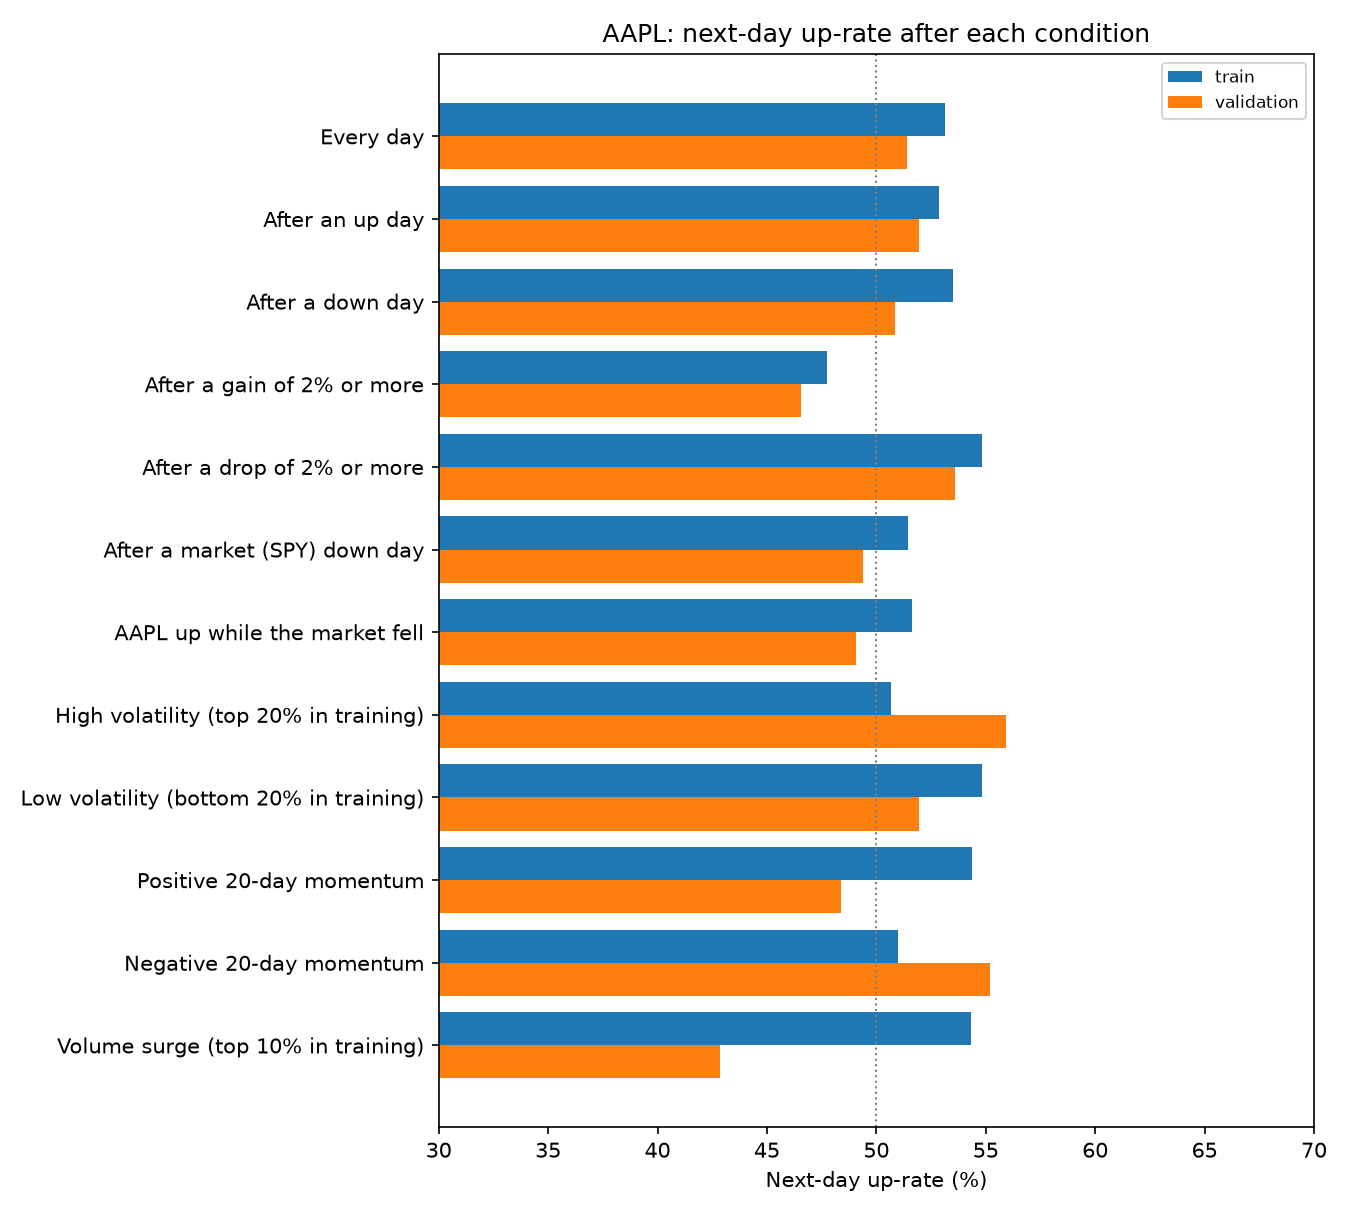
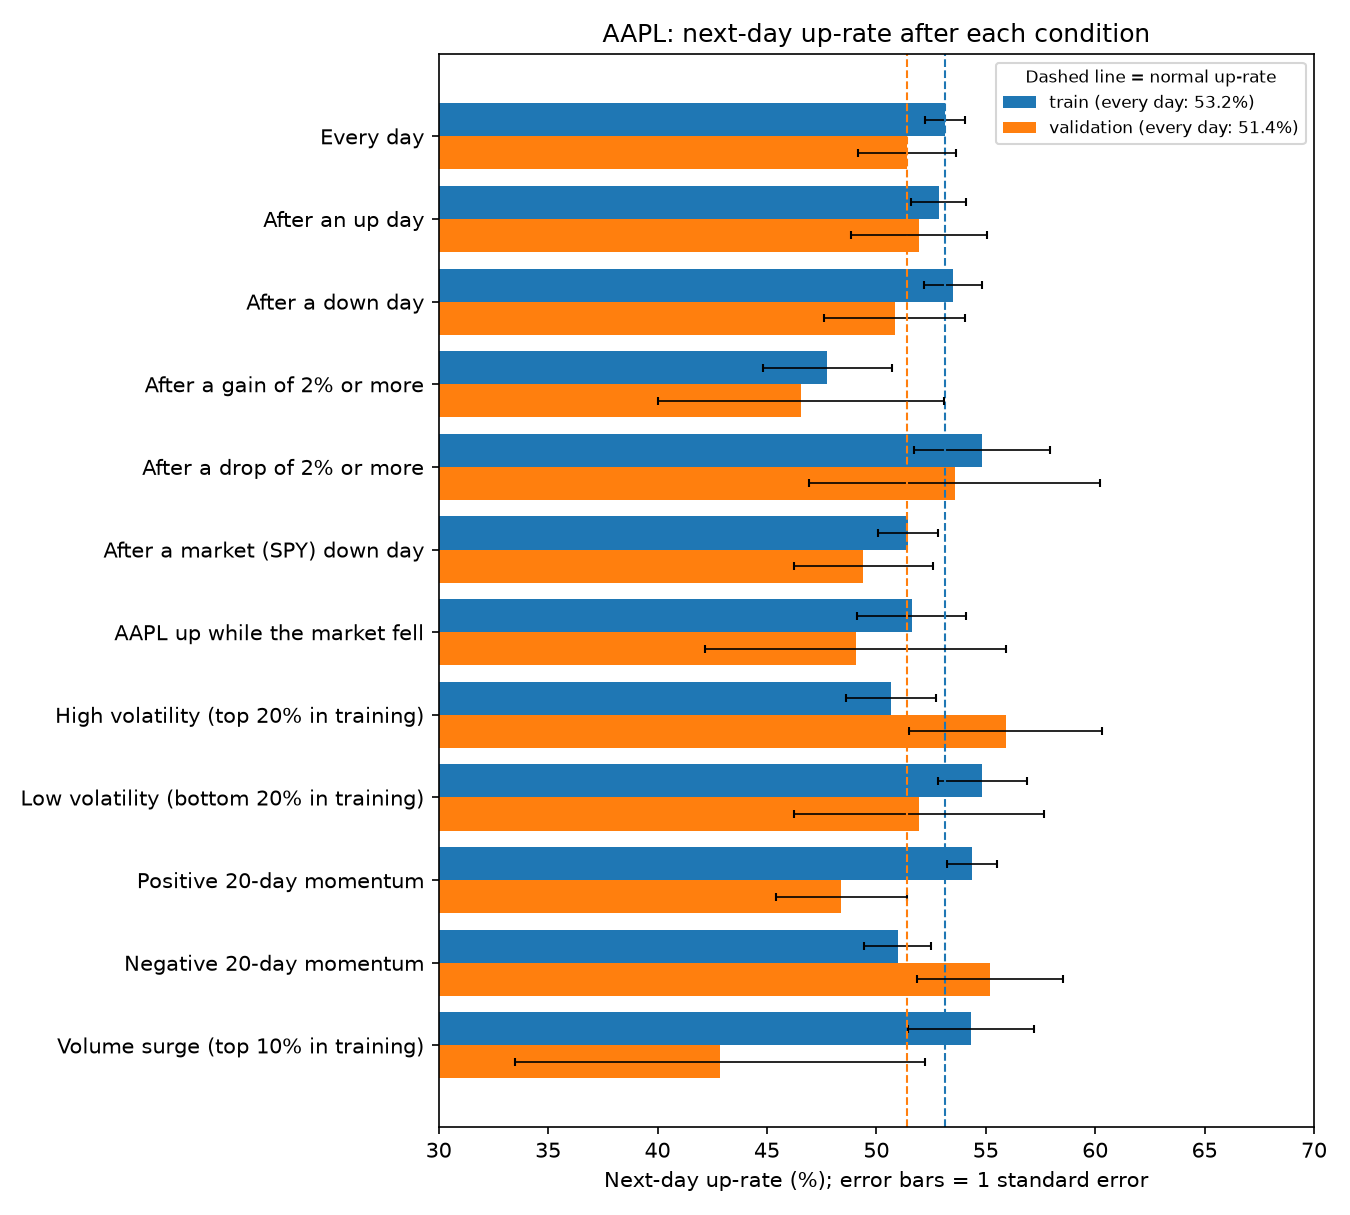
docs(stock-forecast): explain report charts and add mean-reversion checks

diff --git a/apps/stock-forecast/src/stock_forecast/evaluate.py b/apps/stock-forecast/src/stock_forecast/evaluate.py
@@ -229,24 +229,42 @@ def plot_direction_accuracy(table: pd.DataFrame, always_up_rate: float, path: Pa
     return _save(fig, path)
 
 
-def plot_loss(history: dict, path: Path) -> Path:
+def plot_loss(history: dict, path: Path, ylabel: str = "Mean squared error (scaled)") -> Path:
     """Training vs validation loss by epoch. Diverging lines mean memorising."""
     fig, ax = plt.subplots(figsize=(8, 4))
     ax.plot(history["loss"], label="Training loss")
     ax.plot(history["val_loss"], label="Validation loss")
     ax.set_xlabel("Epoch")
-    ax.set_ylabel("Mean squared error (scaled)")
+    ax.set_ylabel(ylabel)
     ax.legend()
     return _save(fig, path)
 
 
-def plot_walk_forward(table: pd.DataFrame, path: Path) -> Path:
-    """Direction accuracy per test year, one line per model."""
+def plot_walk_forward(
+    table: pd.DataFrame, path: Path, highlight: tuple[str, ...] = ("LSTM direction", "LSTM")
+) -> Path:
+    """Direction accuracy per test year: always-up as the bar to clear, highlighted models in colour.
+
+    Every other model is drawn thin and grey, so the comparison that matters
+    stays readable while the rest remain visible for context.
+    """
     fig, ax = plt.subplots(figsize=(9, 4.5))
-    for model, rows in table.dropna(subset=["direction_accuracy"]).groupby("model"):
-        ax.plot(rows["year"], rows["direction_accuracy"] * 100, marker="o", label=model)
+    scored = table.dropna(subset=["direction_accuracy"])
+    for model, rows in scored.groupby("model"):
+        if model not in highlight:
+            ax.plot(rows["year"], rows["direction_accuracy"] * 100, color="lightgrey", linewidth=1, zorder=1)
+    if "always_up_rate" in table:
+        years = table.groupby("year")["always_up_rate"].first()
+        ax.plot(years.index, years * 100, color="black", linestyle="--", linewidth=2, marker="s",
+                label="Always up (bar to clear)", zorder=2)
+    for model in highlight:
+        rows = scored[scored["model"] == model]
+        if not rows.empty:
+            ax.plot(rows["year"], rows["direction_accuracy"] * 100, marker="o", linewidth=2, label=model, zorder=3)
+    ax.plot([], [], color="lightgrey", linewidth=1, label="Other baselines")
     ax.set_xlabel("Test year")
     ax.set_ylabel("Direction accuracy (%)")
+    ax.set_title("Walk-forward: direction accuracy per test year")
     ax.legend(fontsize=8)
     return _save(fig, path)
 
@@ -288,20 +306,32 @@ def plot_up_probability(
 
 
 def plot_market_conditions(table: pd.DataFrame, path: Path, title: str) -> Path:
-    """Next-day up-rate after each market condition, one bar per period."""
-    periods = [c for c in table.columns if c.endswith("_up_rate")]
+    """Next-day up-rate after each market condition, one bar per period.
+
+    Each period's dashed line is its "Every day" up-rate: the normal rate a
+    condition has to differ from. Error bars span one standard error, so a
+    bar whose error bar crosses its dashed line is within ordinary noise.
+    """
+    periods = [c.removesuffix("_up_rate") for c in table.columns if c.endswith("_up_rate")]
+    baseline = table.set_index("condition").loc["Every day"]
     fig, ax = plt.subplots(figsize=(9, 0.55 * len(table) + 1.5))
     height = 0.8 / len(periods)
     positions = np.arange(len(table))
-    for i, column in enumerate(periods):
-        ax.barh(positions + i * height, table[column] * 100, height=height, label=column.removesuffix("_up_rate"))
+    colors = plt.rcParams["axes.prop_cycle"].by_key()["color"]
+    for i, period in enumerate(periods):
+        rate, days = table[f"{period}_up_rate"], table[f"{period}_days"]
+        # Standard error of a share: sqrt(p(1 - p) / n), in percentage points.
+        error = np.sqrt(rate * (1 - rate) / days.where(days > 0)) * 100
+        ax.barh(positions + i * height, rate * 100, height=height, xerr=error, capsize=2,
+                color=colors[i], error_kw={"elinewidth": 0.8, "ecolor": "black"},
+                label=f"{period} (every day: {baseline[f'{period}_up_rate']:.1%})")
+        ax.axvline(baseline[f"{period}_up_rate"] * 100, color=colors[i], linestyle="--", linewidth=1)
     ax.set_yticks(positions + height * (len(periods) - 1) / 2, table["condition"])
     ax.invert_yaxis()
-    ax.axvline(50, color="grey", linestyle=":", linewidth=1)
-    ax.set_xlabel("Next-day up-rate (%)")
+    ax.set_xlabel("Next-day up-rate (%); error bars = 1 standard error")
     ax.set_xlim(30, 70)
     ax.set_title(title)
-    ax.legend(fontsize=8)
+    ax.legend(fontsize=8, title="Dashed line = normal up-rate", title_fontsize=8)
     return _save(fig, path)
 
 

diff --git a/apps/stock-forecast/tests/test_insights.py b/apps/stock-forecast/tests/test_insights.py
@@ -5,8 +5,8 @@ import numpy as np
 
 from stock_forecast.data import add_indicators, split_by_date
 from stock_forecast.evaluate import plot_market_conditions
-from stock_forecast.insights import condition_rules, market_conditions
-from tests.helpers import make_dataset
+from stock_forecast.insights import condition_rules, market_conditions, return_autocorrelation
+from tests.helpers import make_dataset, simulate_var
 
 
 class MarketConditionTests(unittest.TestCase):
@@ -18,12 +18,14 @@ class MarketConditionTests(unittest.TestCase):
     def test_one_row_per_rule_with_days_and_rates(self):
         self.assertEqual(len(self.table), len(condition_rules(self.splits.train)))
         self.assertEqual(list(self.table.columns),
-                         ["condition", "train_days", "train_up_rate", "validation_days", "validation_up_rate"])
+                         ["condition", "train_days", "train_up_rate", "train_mean_return",
+                          "validation_days", "validation_up_rate", "validation_mean_return"])
 
     def test_every_day_row_is_the_plain_up_rate(self):
         row = self.table.set_index("condition").loc["Every day"]
         self.assertEqual(row["validation_days"], len(self.splits.val))
         self.assertAlmostEqual(row["validation_up_rate"], (self.splits.val["target"] > 0).mean())
+        self.assertAlmostEqual(row["validation_mean_return"], self.splits.val["target"].mean())
 
     def test_thresholds_come_from_training_only(self):
         changed_val = self.splits.val.copy()
@@ -37,6 +39,17 @@ class MarketConditionTests(unittest.TestCase):
         calm["ret"] = 0.0
         table = market_conditions(self.splits.train, {"calm": calm}).set_index("condition")
         self.assertTrue(np.isnan(table.loc["After a drop of 2% or more", "calm_up_rate"]))
+
+    def test_autocorrelation_finds_reversal_and_ignores_a_random_walk(self):
+        # a(t) = -0.3 a(t-1) + noise: a known mean-reverting series.
+        reverting = simulate_var([[[-0.3, 0.0], [0.0, 0.0]]], [0.0, 0.0], 3000, seed=1).rename(columns={"a": "ret"})
+        table = return_autocorrelation({"reverting": reverting, "random walk": self.splits.train}, lags=range(1, 3))
+        first = table[(table["period"] == "reverting") & (table["lag_days"] == 1)].iloc[0]
+        self.assertAlmostEqual(first["autocorrelation"], -0.3, delta=0.05)
+        self.assertTrue(first["beyond_noise"])
+        walk = table[(table["period"] == "random walk") & (table["lag_days"] == 1)].iloc[0]
+        self.assertLess(abs(walk["autocorrelation"]), 3 * walk["standard_error"])
+        self.assertEqual(walk["days"], len(self.splits.train) - 1)
 
     def test_chart_is_written(self):
         with tempfile.TemporaryDirectory() as folder:

diff --git a/apps/stock-forecast/src/stock_forecast/insights.py b/apps/stock-forecast/src/stock_forecast/insights.py
@@ -40,7 +40,10 @@ def condition_rules(train: pd.DataFrame) -> dict[str, Condition]:
 
 
 def market_conditions(train: pd.DataFrame, periods: dict[str, pd.DataFrame]) -> pd.DataFrame:
-    """One row per condition: matching days and next-day up-rate in each period.
+    """One row per condition: matching days, next-day up-rate and mean next-day return in each period.
+
+    The up-rate counts days; the mean return also weighs how big the moves
+    were, which is what mean reversion is about.
 
     `periods` maps a label to a split, e.g. {"train": train, "validation": val}.
     Pass the test split only after the final test has been run.
@@ -50,8 +53,36 @@ def market_conditions(train: pd.DataFrame, periods: dict[str, pd.DataFrame]) -> 
         row: dict = {"condition": name}
         for label, part in periods.items():
             mask = rule(part).to_numpy()
-            up = part["target"].to_numpy()[mask] > 0
+            next_returns = part["target"].to_numpy()[mask]
             row[f"{label}_days"] = int(mask.sum())
-            row[f"{label}_up_rate"] = float(up.mean()) if mask.any() else np.nan
+            row[f"{label}_up_rate"] = float((next_returns > 0).mean()) if mask.any() else np.nan
+            row[f"{label}_mean_return"] = float(next_returns.mean()) if mask.any() else np.nan
         rows.append(row)
     return pd.DataFrame(rows)
+
+
+def return_autocorrelation(periods: dict[str, pd.DataFrame], lags: range = range(1, 6)) -> pd.DataFrame:
+    """Correlation between each day's return and the return `lag` days later, per period.
+
+    Negative values mean moves tend to partly reverse (mean reversion);
+    positive values mean they tend to continue (momentum). Under no
+    relationship, values fall within about two standard errors of zero,
+    where one standard error is roughly 1 / sqrt(days).
+    """
+    rows = []
+    for label, part in periods.items():
+        returns = part["ret"]
+        for lag in lags:
+            # Descriptive only, never a model input. Both series come from the same split,
+            # so no return from a later split is paired in.
+            pairs = pd.concat([returns, returns.shift(-lag)], axis=1).dropna()
+            rows.append({
+                "period": label,
+                "lag_days": lag,
+                "days": len(pairs),
+                "autocorrelation": float(pairs.iloc[:, 0].corr(pairs.iloc[:, 1])),
+                "standard_error": float(1 / np.sqrt(len(pairs))),
+            })
+    table = pd.DataFrame(rows)
+    table["beyond_noise"] = table["autocorrelation"].abs() > 2 * table["standard_error"]
+    return table

diff --git a/apps/stock-forecast/scripts/market-conditions.py b/apps/stock-forecast/scripts/market-conditions.py
@@ -1,9 +1,10 @@
-"""Next-day up-rates after common market conditions, training vs validation.
+"""Next-day up-rates and returns after market conditions, plus return autocorrelation.
 
 Descriptive talking points, not a model: does a pattern seen in 2010-2021
 still hold in 2022-2023? Thresholds are cut from training rows only. The test
 years are left out so this cannot steer model choices before the final run.
-Writes reports/market_conditions.csv and reports/market_conditions.png.
+Writes reports/market_conditions.csv, reports/market_conditions.png and
+reports/return_autocorrelation.csv.
 """
 import _bootstrap  # noqa: F401
 import pandas as pd
@@ -11,15 +12,23 @@ import pandas as pd
 from stock_forecast import config
 from stock_forecast.data import split_by_date
 from stock_forecast.evaluate import plot_market_conditions
-from stock_forecast.insights import market_conditions
+from stock_forecast.insights import market_conditions, return_autocorrelation
 from stock_forecast.pipeline import load_direction_dataset
 
 splits = split_by_date(load_direction_dataset())
 # Drop the last row of each split: its label is the next split's first day.
-table = market_conditions(splits.train, {"train": splits.train.iloc[:-1], "validation": splits.val.iloc[:-1]})
+periods = {"train": splits.train.iloc[:-1], "validation": splits.val.iloc[:-1]}
+table = market_conditions(splits.train, periods)
+autocorrelation = return_autocorrelation({"train": splits.train, "validation": splits.val})
 config.REPORTS_DIR.mkdir(parents=True, exist_ok=True)
 table.to_csv(config.MARKET_CONDITIONS_CSV, index=False)
+autocorrelation.to_csv(config.AUTOCORRELATION_CSV, index=False)
 plot_market_conditions(table, config.REPORTS_DIR / "market_conditions.png",
                        f"{config.TICKER}: next-day up-rate after each condition")
 pd.set_option("display.width", 160)
-print(table.to_string(index=False, float_format=lambda v: f"{v:.1%}"))
+shown = table.copy()
+for column in [c for c in shown.columns if c.endswith("_mean_return")]:
+    shown[column] = shown[column].map(lambda v: f"{v:+.3%}")
+print(shown.to_string(index=False, float_format=lambda v: f"{v:.1%}"))
+print("\nReturn autocorrelation (negative = moves partly reverse):")
+print(autocorrelation.to_string(index=False, float_format=lambda v: f"{v:+.4f}"))

diff --git a/apps/stock-forecast/scripts/0003-train-lstm.py b/apps/stock-forecast/scripts/0003-train-lstm.py
@@ -95,7 +95,7 @@ def train_direction_model(features: list[str]) -> None:
                     "LSTM direction: accuracy by confidence, validation 2022-2023")
     plot_up_probability(splits.val.index, best.prob_up, actual, config.REPORTS_DIR / "direction_probability.png",
                         "LSTM direction: predicted vs actual up-days, validation 2022-2023")
-    plot_loss(best.loss_history, config.REPORTS_DIR / "lstm_direction_loss.png")
+    plot_loss(best.loss_history, config.REPORTS_DIR / "lstm_direction_loss.png", ylabel="Log loss (binary cross-entropy)")
 
     pd.set_option("display.width", 160)
     shown = ["model", "direction_accuracy", "balanced_accuracy", "up_call_rate", "auc", "brier_skill", "log_loss"]

diff --git a/apps/stock-forecast/src/stock_forecast/config.py b/apps/stock-forecast/src/stock_forecast/config.py
@@ -65,6 +65,7 @@ WALK_FORWARD_CSV = REPORTS_DIR / "walk_forward.csv"
 DIRECTION_RESULTS_CSV = REPORTS_DIR / "direction_results.csv"
 TEST_DIRECTION_CSV = REPORTS_DIR / "test_direction_results.csv"
 MARKET_CONDITIONS_CSV = REPORTS_DIR / "market_conditions.csv"
+AUTOCORRELATION_CSV = REPORTS_DIR / "return_autocorrelation.csv"
 SCORECARD_JSON = REPO_ROOT / "apps" / "client-ui" / "public" / "forecast" / "scorecard.json"
 PRICE_CHART = REPORTS_DIR / "aapl_price.png"
 DAILY_RETURNS_CHART = REPORTS_DIR / "aapl_daily_returns.png"

diff --git a/apps/stock-forecast/reports/README.md b/apps/stock-forecast/reports/README.md
@@ -1,0 +1,101 @@
+# Reading the charts
+
+A plain-language guide to every chart in this folder. No machine learning background needed.
+
+## The question
+
+Can a computer model tell whether Apple's stock (AAPL) will go **up or down tomorrow**, better than a simple rule?
+
+The simple rule to beat is **"always up"**: guess "up" every single day. Because AAPL rose over most of these years, that rule is usually right a little more than half the time (between 47% and 58%, depending on the year). A model is only useful if it beats that.
+
+## Words used below
+
+| Word | Meaning |
+| --- | --- |
+| Up-rate | The share of days the stock closed higher than the day before |
+| Accuracy | The share of days the model guessed up or down correctly |
+| Training years | 2010 to 2021: the history the model learns from |
+| Validation years | 2022 and 2023: used to check and tune the model; it never learns from them |
+| Test years | 2024 to 2026: kept sealed and used once, at the very end |
+| LSTM | The type of neural network used here; it reads the last few weeks of prices in order |
+| Noise | Random ups and downs that look like a pattern but are not one |
+
+## The data
+
+**`aapl_price.png`**: AAPL's closing price from 2010 to 2026. It shows the long upward trend, which is why "always up" is a strong rule to beat.
+
+**`aapl_daily_returns.png`**: how much the price moved each day, in percent. Most days sit close to zero, with occasional big jumps (such as the 2020 crash). The model predicts these daily moves, not the price itself, because the price mostly repeats yesterday's value and would make any model look good.
+
+## Market conditions
+
+**`market_conditions.png`**: after a certain kind of day, how often was the next day up?
+
+- Blue bars are the training years, orange bars the validation years.
+- The **dashed lines** show the normal up-rate on any day: 53.2% in training, 51.4% in validation. Being above 50% is normal for this stock and not, by itself, a signal.
+- The **thin black lines** on each bar show how much the number could move by chance. If a bar's black line crosses its dashed line, the difference may just be noise.
+
+What to take away:
+
+- **After a gain of 2% or more**, the next day was up less often than normal (about 47% in both periods). This is the most consistent pattern, though still small.
+- **20-day momentum flipped**: in training, rising stocks kept rising slightly more often; in validation the opposite happened. Patterns from the past do not always carry forward.
+- Conditions with few days, such as **volume surge** (28 validation days), are too noisy to trust.
+
+This chart describes history; it is not a forecast.
+
+### Is it mean reversion?
+
+Mean reversion means a big move tends to be partly given back the next day. Two numbers test it, both in the data files rather than the chart.
+
+**Average next-day return** (`market_conditions.csv`, the `_mean_return` columns) weighs how big the moves were, not just whether they were up:
+
+| After | Training, next day | Validation, next day |
+| --- | --- | --- |
+| Any day (normal) | +0.13% | +0.03% |
+| A gain of 2% or more | +0.02% | -0.25% |
+| A drop of 2% or more | +0.26% | +0.19% |
+
+Both periods point the same way: big gains were followed by weaker days and big drops by stronger ones. But a single day's return typically varies by about 1.8%, so with only about 57 such days in validation, these differences are within noise there.
+
+**Autocorrelation** (`return_autocorrelation.csv`) measures how much one day's return predicts a later day's, across all days. Negative means moves partly reverse; positive means they continue; zero means no link.
+
+- Training, next day: **-0.053**, about three times its noise level, so a real but tiny reversal effect in 2010 to 2021.
+- Validation, next day: **-0.004**, indistinguishable from zero. The effect did not show up in 2022 to 2023.
+
+For a finance audience: AAPL showed mild short-term reversal historically, consistent across both periods in direction, but it is far too small and unstable to trade, especially after costs.
+
+## How the models did
+
+**`direction_accuracy_validation.png`**: accuracy of the simple models on 2022 and 2023, with "always up" marked by the dashed line. Bars to the left of the line did worse than guessing "up" every day.
+
+**`walk_forward.png`**: the most important chart. Each year from 2018 to 2023, the models were retrained on all earlier years and then scored on that one year.
+
+- **Black dashed line**: "always up", the bar to clear.
+- **Blue**: the direction LSTM. **Orange**: the earlier LSTM that predicts the size of the move.
+- **Grey**: other simple models, for context.
+
+The direction LSTM beat "always up" in only 2 of 6 years, averaging 52.8% against 53.3% for "always up". In other words, **it did not reliably beat the simple rule**, which is an honest and common result for daily stock prediction.
+
+## Inside the direction model
+
+**`direction_probability.png`**: the model gives a probability that tomorrow is up. The dashed line is its average probability over 20 days; the solid line is how often the stock actually went up over the same 20 days. The model's line stays close to 50 to 60% and moves far less than reality, meaning it mostly hedges.
+
+**`direction_confidence_validation.png`**: days are sorted into five equal groups, from the days the model was least sure (1) to the days it was most sure (5). If the model knew when to trust itself, the bars would rise from left to right. They do not: group 1 scored 57% and group 3 scored 50%, so its confidence is not a reliable guide.
+
+**`lstm_direction_loss.png`**: how the model's error changed while it learned. Training error (blue) keeps falling, but validation error (orange) starts rising after about 8 rounds. That means the model began memorising the training years instead of learning something general, so training stopped and the best earlier version was kept.
+
+## The earlier return model
+
+**`lstm_loss.png`**: the same learning chart for the LSTM that predicts the size of tomorrow's move.
+
+**`lstm_lag_check.png`**: predicted next-day price against the actual price. The two lines look very close, but the predicted line is mostly the actual line shifted one day to the right: the model largely repeats today's price. A chart like this looks impressive while showing almost no real skill.
+
+## Charts made after the final test
+
+These appear only once the sealed 2024 to 2026 test has been run:
+
+- **`direction_confidence_test.png`**: the confidence chart for the test years.
+- **`direction_probability_test.png`**: the probability chart for the test years.
+
+## The data files
+
+The CSV files hold the numbers behind the charts. `results.csv` and `direction_results.csv` log every experiment, including the bad ones, so nothing can be quietly left out.

diff --git a/apps/stock-forecast/README.md b/apps/stock-forecast/README.md
@@ -36,7 +36,9 @@ The direction track is the headline. Each direction model outputs P(up) for the 
 
 Inputs (`DIRECTION_FEATURES`): today's return, SPY's return, volume change, 10-day volatility and 20-day momentum. `data.add_indicators` computes the last two from past rows only and drops the warm-up rows in early 2010. The final training and validation rows carry a label from the next split, so the direction models never fit or early-stop on those labels. Confidence buckets split the scored days into five equal groups by distance from 0.5; accuracy that does not rise with confidence means the probabilities do not tell you which days to trust.
 
-`market-conditions.py` is descriptive: the next-day up-rate after conditions such as a 2% drop or high volatility, in training and validation side by side, with thresholds cut from training rows only. It never reads the test years.
+[reports/README.md](reports/README.md) explains every chart for readers without a machine learning background.
+
+`market-conditions.py` is descriptive: the next-day up-rate and mean next-day return after conditions such as a 2% drop or high volatility, in training and validation side by side, with thresholds cut from training rows only. It also writes the lag 1 to 5 autocorrelation of daily returns, the standard mean-reversion check. It never reads the test years.
 
 ## Data and splits
 
@@ -82,7 +84,7 @@ Run from `apps/stock-forecast` with the virtual environment active.
 | 3 | `python scripts/0005-export-scorecard.py --placeholder` | Placeholder `scorecard.json` for the UI | Once, week 1 |
 | 4 | `python scripts/0002-evaluate-baselines.py` | `reports/results.csv`, direction chart | Week 1, again after changes |
 | 5 | `python scripts/0003-train-lstm.py` | `models/`, `reports/results.csv`, loss and lag charts | Week 2 |
-| 6 | `python scripts/market-conditions.py` | `reports/market_conditions.csv` and `.png` | Week 3 |
+| 6 | `python scripts/market-conditions.py` | `reports/market_conditions.csv` and `.png`, `reports/return_autocorrelation.csv` | Week 3 |
 | 7 | `python scripts/0003-train-lstm.py --task direction --sweep` | `models/lstm-direction/`, `reports/direction_results.csv`, confidence, probability and loss charts | Week 3 |
 | 8 | `python scripts/0004-walk-forward.py --with-lstm --with-direction-lstm` | `reports/walk_forward.csv`, chart | Week 3 |
 | 9 | `python scripts/0005-export-scorecard.py --model lstm-direction` | `reports/test_results.csv`, `reports/test_direction_results.csv`, test confidence charts, real `scorecard.json` | Once, Oct 22, after the final review |
